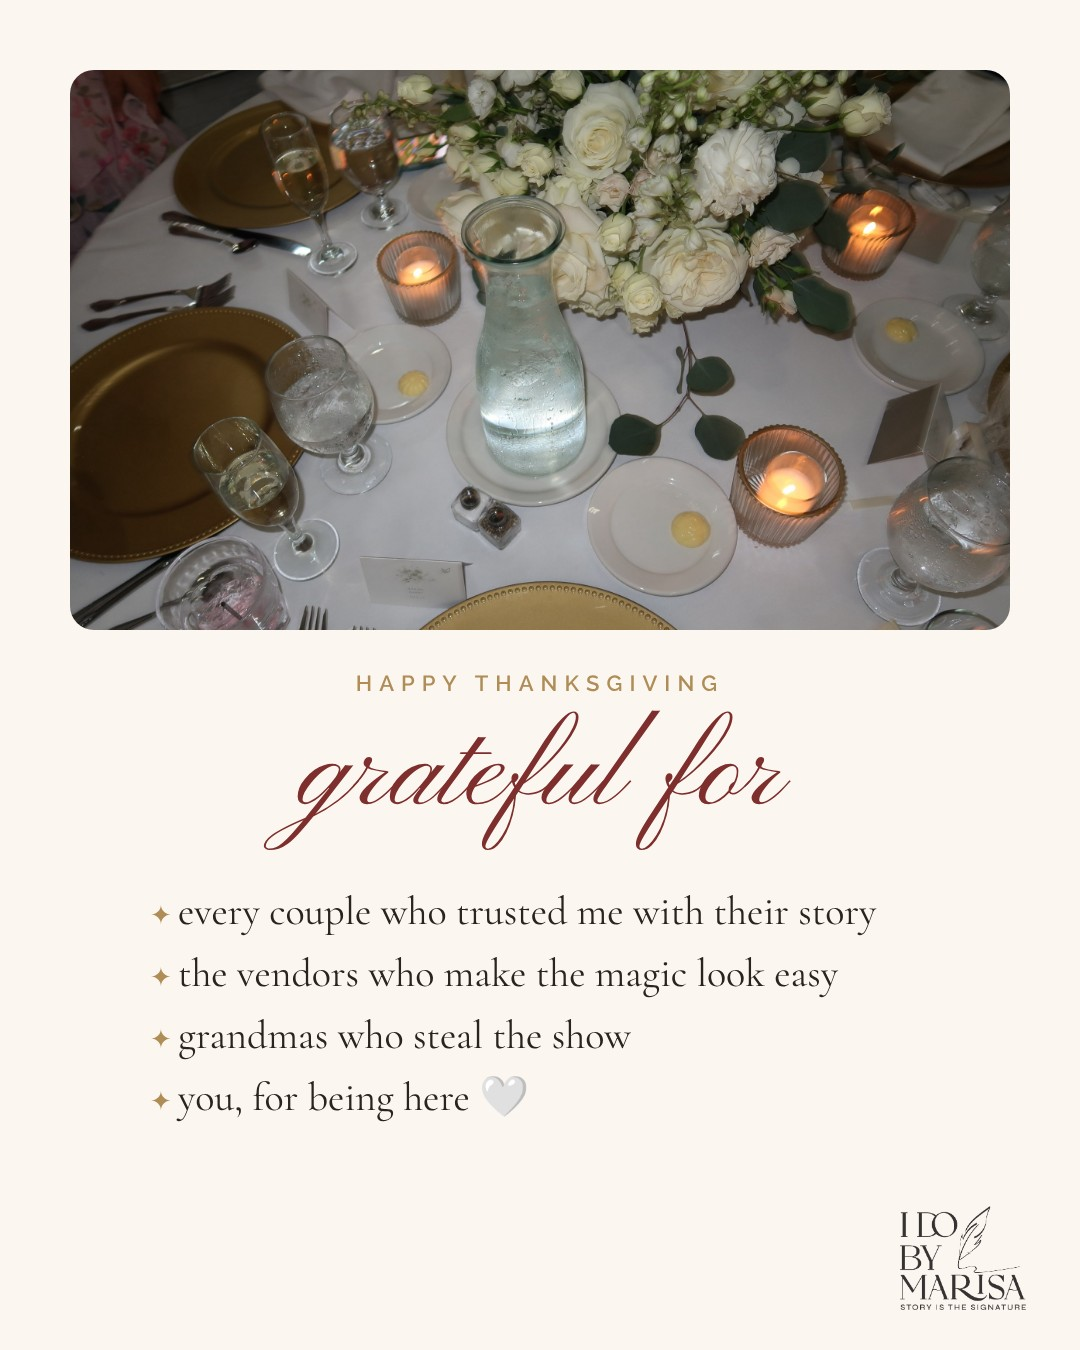
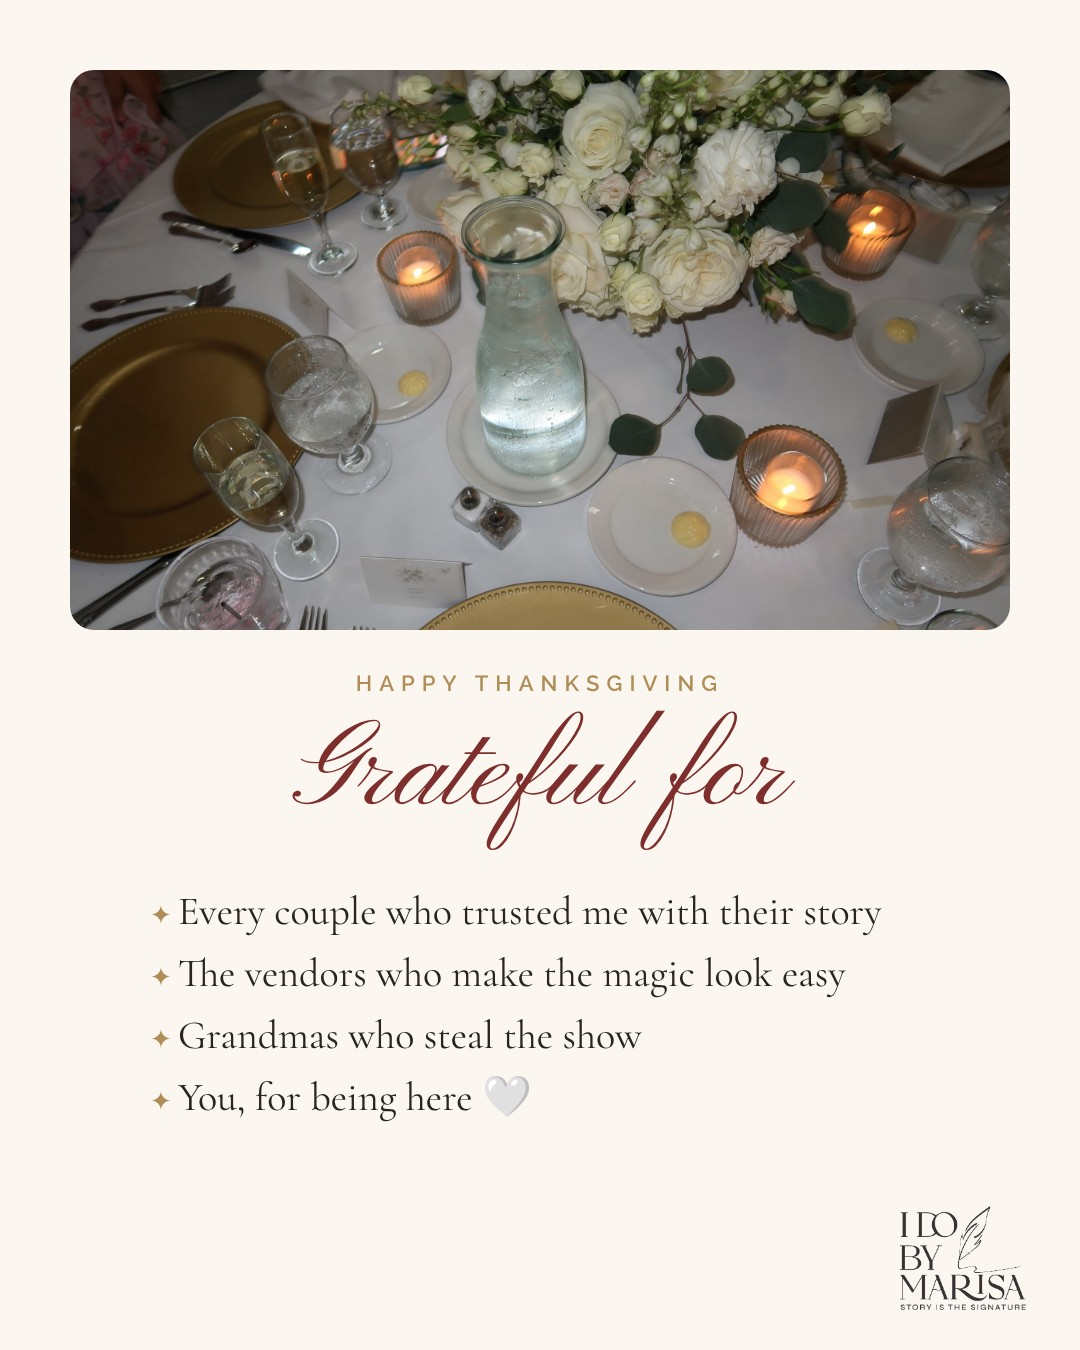
I Do: proper capitalization on Thanksgiving graphics
Claude-Session: https://claude.ai/code/session_01CeoovJ21APbX2P2SCMoWFW

diff --git a/ido_cool/thanks/t.OLD-lowercase.html b/ido_cool/thanks/t.OLD-lowercase.html
@@ -1,0 +1,31 @@
+<!doctype html><html><head><meta charset="utf-8"><link href="https://fonts.googleapis.com/css2?family=Cormorant+Garamond:ital,wght@0,400;0,500;1,400&family=Pinyon+Script&family=Raleway:wght@400;500;600&family=DM+Serif+Display:ital@0;1&family=DM+Sans:wght@400;500;600&display=swap" rel="stylesheet"><style>
+*{box-sizing:border-box}body{margin:0}p{margin:0}
+.s{width:1080px;height:1350px;position:relative;overflow:hidden;margin-bottom:10px}
+.tall{height:1920px}
+/* I Do */
+.i{background:#FBF7F0;color:#2A241F;font-family:'Cormorant Garamond'}
+.i .ph{position:absolute;left:0;right:0;top:70px;height:560px;display:flex;justify-content:center}.i .ph img{max-height:100%;max-width:940px;object-fit:cover;border-radius:24px}
+.i .k{position:absolute;left:0;right:0;top:670px;text-align:center;font:600 22px Raleway;letter-spacing:.32em;text-transform:uppercase;color:#B08D57}
+.i h1{position:absolute;left:0;right:0;top:715px;margin:0;text-align:center;font:400 120px/1 'Pinyon Script';color:#7E2E2C}
+.i ul{position:absolute;left:150px;right:120px;top:880px;margin:0;padding:0;list-style:none;font:400 40px/1.55 'Cormorant Garamond'}
+.i li::before{content:'✦ ';color:#B08D57;font-size:26px}
+.i .mark{position:absolute;right:54px;bottom:40px;font:400 46px 'Pinyon Script';color:#7E2E2C}
+.tall.i .ph{top:180px;height:760px}.tall.i .k{top:1010px}.tall.i h1{top:1060px;font-size:140px}.tall.i ul{top:1250px}.tall.i .mark{bottom:200px}
+/* Stitches */
+.t{background:#EFE8DC;color:#2B2B2B;font-family:'DM Sans'}
+.t .ph{position:absolute;left:0;right:0;top:70px;height:640px;display:flex;justify-content:center}.t .ph img{max-height:100%;border-radius:14px;box-shadow:0 14px 30px rgba(0,0,0,.12)}
+.t h1{position:absolute;left:90px;right:90px;top:760px;margin:0;font:italic 400 88px/1 'DM Serif Display'}
+.t .b{position:absolute;left:92px;right:110px;top:960px;font:400 34px/1.5 'DM Sans'}
+.t .b span{color:#9E2E5F}
+.t .m{position:absolute;right:46px;bottom:34px;font:400 30px 'DM Serif Display'}.t .m span{color:#9E2E5F}
+.tall.t .ph{top:180px;height:820px}.tall.t h1{top:1070px}.tall.t .b{top:1290px}.tall.t .m{bottom:200px}
+</style><!--brandmark--><script>window.addEventListener("DOMContentLoaded",()=>{document.querySelectorAll(".mark,.logo").forEach(m=>{if(!/I Do by Marisa/i.test(m.textContent))return;let el=m.parentElement,bg;while(el){const c=getComputedStyle(el).backgroundColor;if(c&&c!=="rgba(0, 0, 0, 0)"&&c!=="transparent"){bg=c;break}el=el.parentElement}const [r,g,b]=(bg||"rgb(251,247,240)").match(/[0-9.]+/g).map(Number);const dark=(0.299*r+0.587*g+0.114*b)<150;m.textContent="";const i=document.createElement("img");i.src="file:///home/user/marisa/ido_cool/_brand/"+(dark?"logo-blush-crop.png":"logo-charcoal-crop.png");i.style.cssText="height:104px;width:auto;display:block";m.appendChild(i);m.style.fontSize="0";m.style.lineHeight="0";m.style.textShadow="none";m.style.opacity="1"})})</script></head><body>
+<section class="s i" id="ido"><div class="ph"><img src="table.jpg"></div><p class="k">happy thanksgiving</p><h1>grateful for</h1>
+<ul><li>every couple who trusted me with their story</li><li>the vendors who make the magic look easy</li><li>grandmas who steal the show</li><li>you, for being here 🤍</li></ul><div class="mark">I Do by Marisa</div></section>
+<section class="s tall i" id="idostory"><div class="ph"><img src="table.jpg"></div><p class="k">happy thanksgiving</p><h1>grateful for</h1>
+<ul><li>every couple who trusted me with their story</li><li>the vendors who make the magic look easy</li><li>you, for being here 🤍</li></ul><div class="mark">I Do by Marisa</div></section>
+<section class="s t" id="st"><div class="ph"><img src="../../stitches/longchamp/longchamp.jpg"></div><h1>thankful for<br>the little things</h1>
+<p class="b">matcha, fresh flowers, a rainy day in, and every name i’ve ever gotten to stitch. <span>✦</span> happy thanksgiving from my hoop to your table.</p><div class="m">marisa stitches<span> ✦</span></div></section>
+<section class="s tall t" id="ststory"><div class="ph"><img src="../../stitches/longchamp/longchamp.jpg"></div><h1>thankful for<br>the little things</h1>
+<p class="b">every name i’ve ever gotten to stitch. <span>✦</span> happy thanksgiving.</p><div class="m">marisa stitches<span> ✦</span></div></section>
+</body></html>

diff --git a/ido_cool/thanks/t.html b/ido_cool/thanks/t.html
@@ -20,10 +20,10 @@
 .t .m{position:absolute;right:46px;bottom:34px;font:400 30px 'DM Serif Display'}.t .m span{color:#9E2E5F}
 .tall.t .ph{top:180px;height:820px}.tall.t h1{top:1070px}.tall.t .b{top:1290px}.tall.t .m{bottom:200px}
 </style><!--brandmark--><script>window.addEventListener("DOMContentLoaded",()=>{document.querySelectorAll(".mark,.logo").forEach(m=>{if(!/I Do by Marisa/i.test(m.textContent))return;let el=m.parentElement,bg;while(el){const c=getComputedStyle(el).backgroundColor;if(c&&c!=="rgba(0, 0, 0, 0)"&&c!=="transparent"){bg=c;break}el=el.parentElement}const [r,g,b]=(bg||"rgb(251,247,240)").match(/[0-9.]+/g).map(Number);const dark=(0.299*r+0.587*g+0.114*b)<150;m.textContent="";const i=document.createElement("img");i.src="file:///home/user/marisa/ido_cool/_brand/"+(dark?"logo-blush-crop.png":"logo-charcoal-crop.png");i.style.cssText="height:104px;width:auto;display:block";m.appendChild(i);m.style.fontSize="0";m.style.lineHeight="0";m.style.textShadow="none";m.style.opacity="1"})})</script></head><body>
-<section class="s i" id="ido"><div class="ph"><img src="table.jpg"></div><p class="k">happy thanksgiving</p><h1>grateful for</h1>
-<ul><li>every couple who trusted me with their story</li><li>the vendors who make the magic look easy</li><li>grandmas who steal the show</li><li>you, for being here 🤍</li></ul><div class="mark">I Do by Marisa</div></section>
-<section class="s tall i" id="idostory"><div class="ph"><img src="table.jpg"></div><p class="k">happy thanksgiving</p><h1>grateful for</h1>
-<ul><li>every couple who trusted me with their story</li><li>the vendors who make the magic look easy</li><li>you, for being here 🤍</li></ul><div class="mark">I Do by Marisa</div></section>
+<section class="s i" id="ido"><div class="ph"><img src="table.jpg"></div><p class="k">happy thanksgiving</p><h1>Grateful for</h1>
+<ul><li>Every couple who trusted me with their story</li><li>The vendors who make the magic look easy</li><li>Grandmas who steal the show</li><li>You, for being here 🤍</li></ul><div class="mark">I Do by Marisa</div></section>
+<section class="s tall i" id="idostory"><div class="ph"><img src="table.jpg"></div><p class="k">happy thanksgiving</p><h1>Grateful for</h1>
+<ul><li>Every couple who trusted me with their story</li><li>The vendors who make the magic look easy</li><li>You, for being here 🤍</li></ul><div class="mark">I Do by Marisa</div></section>
 <section class="s t" id="st"><div class="ph"><img src="../../stitches/longchamp/longchamp.jpg"></div><h1>thankful for<br>the little things</h1>
 <p class="b">matcha, fresh flowers, a rainy day in, and every name i’ve ever gotten to stitch. <span>✦</span> happy thanksgiving from my hoop to your table.</p><div class="m">marisa stitches<span> ✦</span></div></section>
 <section class="s tall t" id="ststory"><div class="ph"><img src="../../stitches/longchamp/longchamp.jpg"></div><h1>thankful for<br>the little things</h1>
